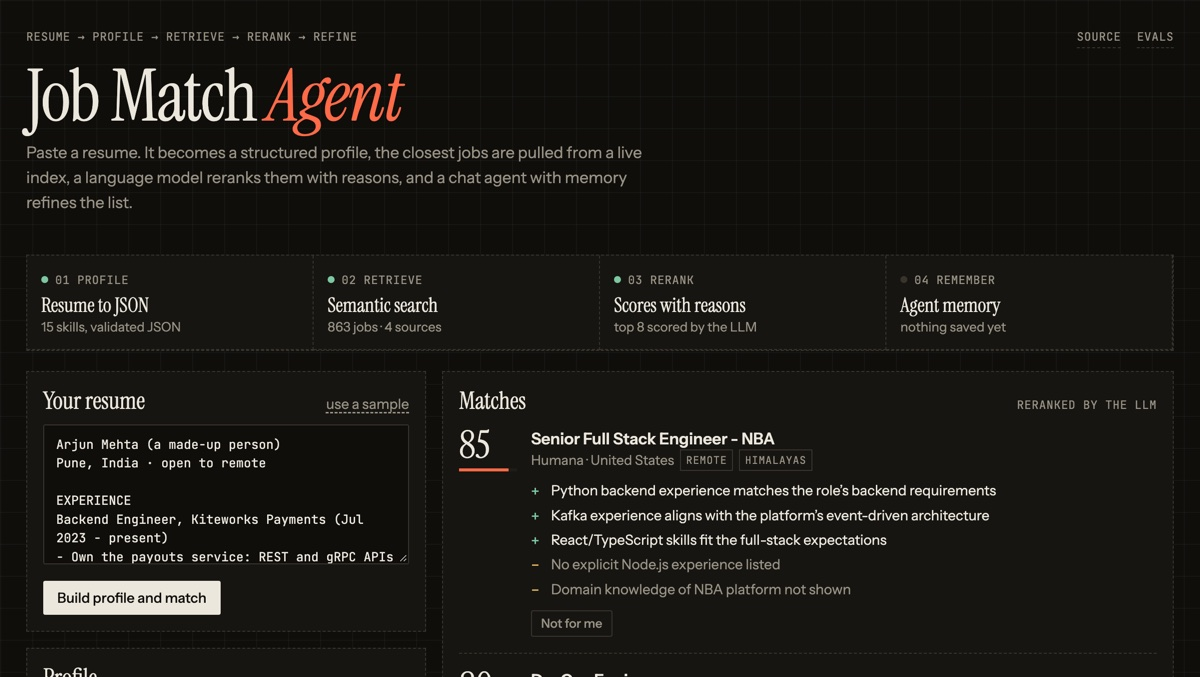
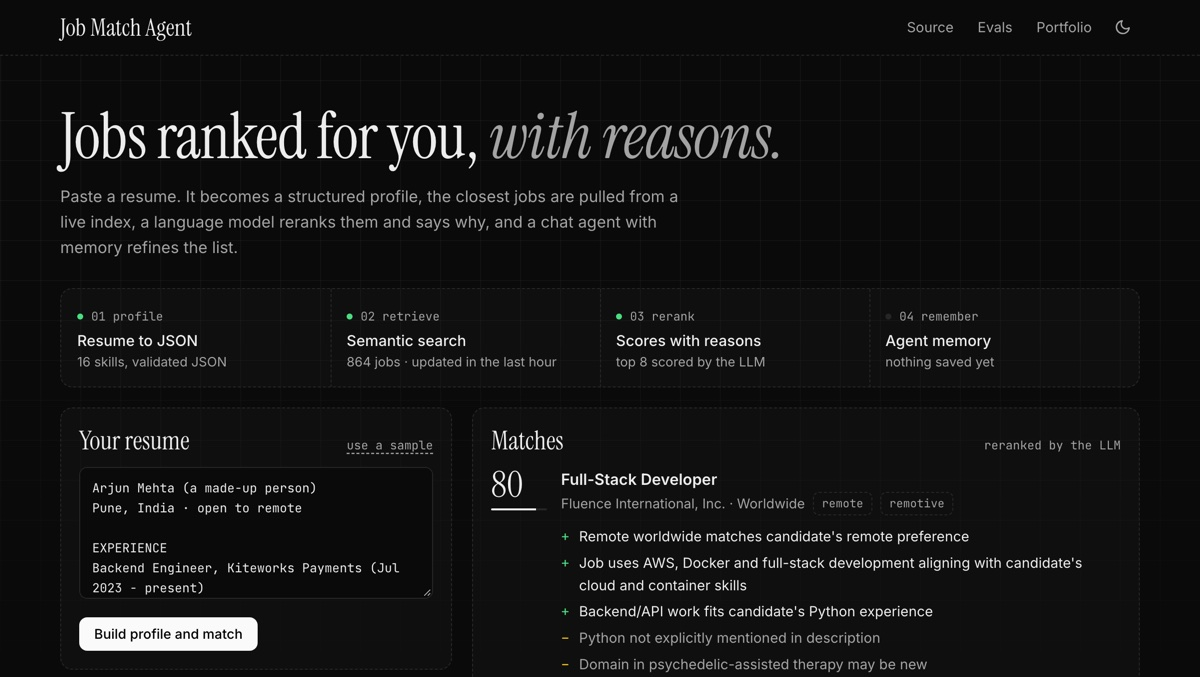
Update Job Match Agent card: new screenshot and agent eval result

diff --git a/index.html b/index.html
@@ -400,7 +400,7 @@
               <div class="project-title-row">
                 <h3 class="project-title">Job Match Agent</h3>
               </div>
-              <p class="project-desc text-muted">Paste a resume and get jobs ranked from a live index of 800+ real listings. Vector search picks candidates and an LLM reranks them with reasons, which took precision@5 from 0.54 to 0.73 in one run of my 20-case eval. A tool-calling agent with memory refines the list by chat.</p>
+              <p class="project-desc text-muted">Paste a resume and get jobs ranked from a live index of 800+ real listings. Vector search picks candidates and an LLM reranks them with reasons (precision@5 0.54 to 0.73 in one run of my 20-case eval). A tool-calling agent with memory refines the list by chat and passed 38 of 39 scripted checks in its own eval.</p>
               <div class="project-footer">
                 <div class="tech-stack-tags font-mono">
                   <span class="tech-tag border-dashed">FastAPI</span>
